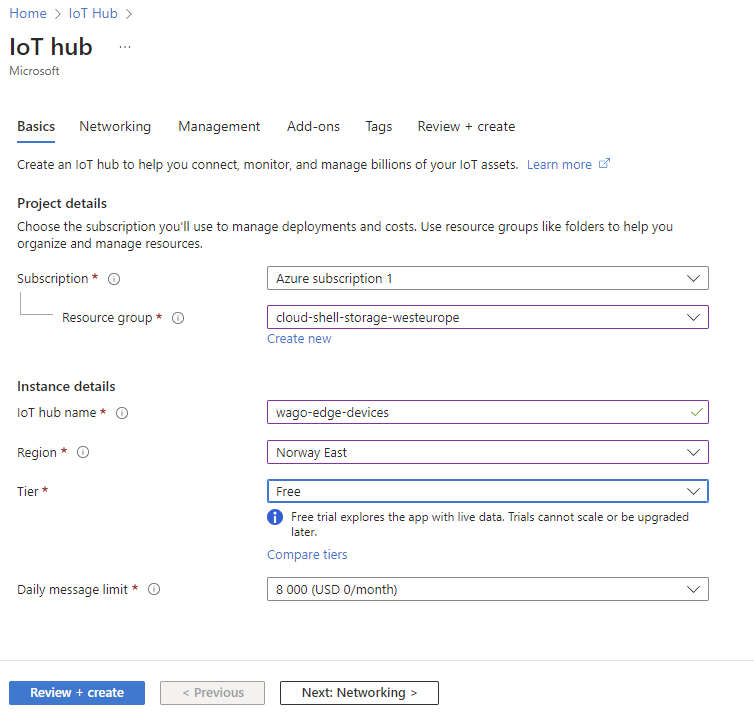
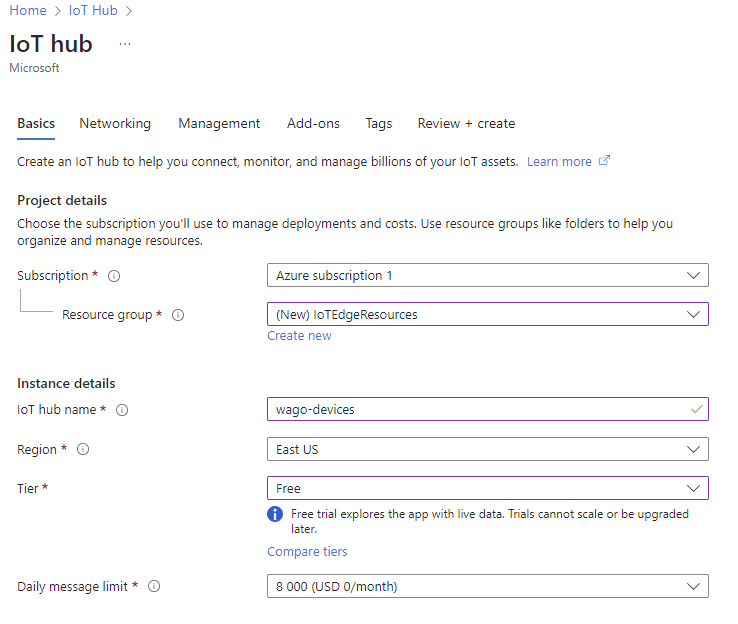
GITBOOK-8: No subject

diff --git a/README/setup.md b/README/setup.md
@@ -4,6 +4,8 @@
 
 <mark style="color:red;">Check with Wago if we can use Wago Azure domain and free tier to create IoT hub.</mark>
 
+<mark style="color:red;">Read below.</mark>
+
 ## Wago IOT agent
 
 [https://github.com/WAGO/azure-iot-edge](https://github.com/WAGO/azure-iot-edge)
@@ -25,7 +27,7 @@ az iot hub create --resource-group IoTWagoResource --name wago-edge-devices --sk
 
 Test 1:
 
-<figure><img src="../.gitbook/assets/image.png" alt=""><figcaption></figcaption></figure>
+<figure><img src="../.gitbook/assets/image (1).png" alt=""><figcaption></figcaption></figure>
 
 This failed with:
 
@@ -46,14 +48,17 @@ This failed with:
 
 test 2:
 
-<figure><img src="../.gitbook/assets/image (1).png" alt=""><figcaption></figcaption></figure>
+<figure><img src="../.gitbook/assets/image (1) (1).png" alt=""><figcaption></figcaption></figure>
 
 This failed with:
 
 _Deployment to resource group 'cloud-shell-storage-westeurope' failed. Additional details from the underlying API that might be helpful: At least one resource deployment operation failed. Please list deployment operations for details. Please see https://aka.ms/arm-deployment-operations for usage details._
 
-```
-```
+<mark style="color:red;">Tried to move the resource to another new one but it also failed. Strange is now that after this failed the previous resource is set to "active" but also get an error...</mark>
+
+<figure><img src="../.gitbook/assets/image.png" alt=""><figcaption></figcaption></figure>
+
+<figure><img src="../.gitbook/assets/image (2).png" alt=""><figcaption></figcaption></figure>
 
 ### Register an IoT edge device
 
